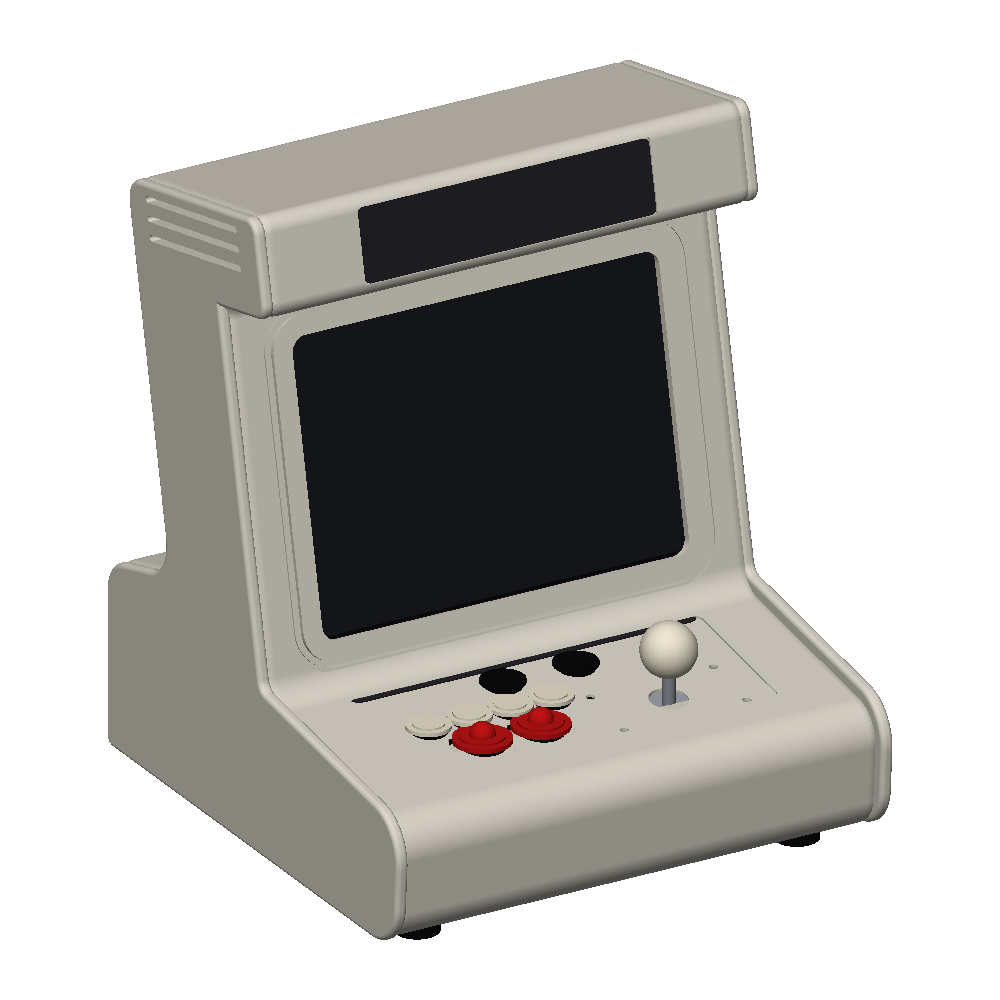
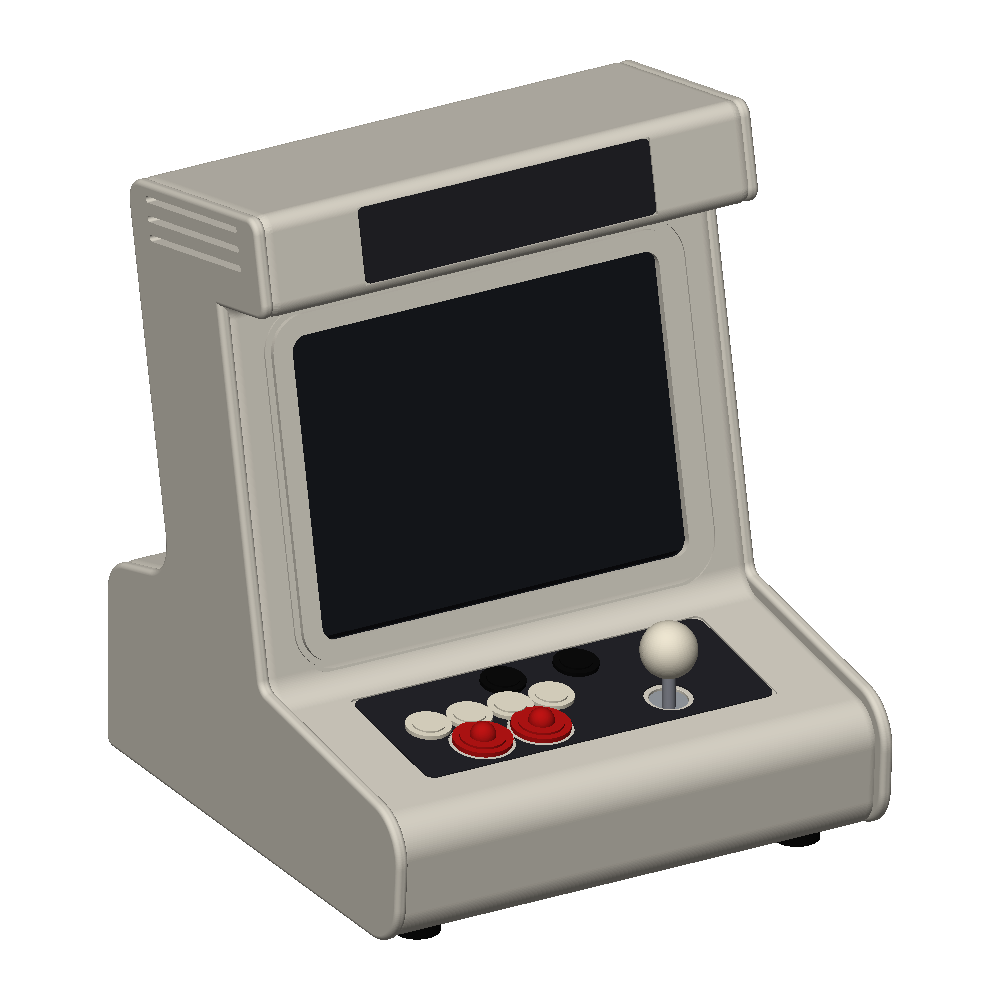
hardware: fit check + component collision purge (iter 31)

Changed region(s): [[0.341, 0.62, 0.775, 0.775]]

diff --git a/hardware/assembly.py b/hardware/assembly.py
@@ -28,11 +28,14 @@ LAYOUT = {
     "mask_thickness": 0.4,       # mm printed black mask behind the glass
     "mask_overlap": 2.0,         # mm mask overlaps the panel active area
     # --- interior boards (floor-mounted, z = wall) ------------------------
-    "sbc_pos": (0.0, 290.0),     # x, y of board center
+    "sbc_pos": (0.0, 272.0),     # x, y of board center; 275+ embedded the
+                                 # rear edge in the rear-wall fillet (fit 31)
     "encoder_pos": (0.0, 110.0),
     "amp_pos": (-100.0, 300.0),
     "buck_pos": (-60.0, 315.0),
     "speaker_height": 22.0,      # 2" driver stack height (catalog bbox)
+    "speaker_gasket": 2.0,       # foam seal under the flange; also clears the
+                                 # hood corner fillets (speaker_scan.py)
     # --- rear panel (outer surface y = cabinet_depth_base) ----------------
     "power_switch_xz": (130.0, 40.0),
     "dc_jack_xz": (-130.0, 40.0),
@@ -68,13 +71,15 @@ def display_face_plane():
 
 
 def place_components():
-    """Return (items, records): items = [(shape, color)] for rendering,
-    records = [{name, at}] for the archive meta."""
-    items, records = [], []
+    """Return (items, records, groups): items = [(shape, color)] for
+    rendering, records = [{name, at}] for the archive meta, groups =
+    [(name, [shape, ...])] for fit checks (shapes in world coords)."""
+    items, records, groups = [], [], []
 
     def add(name, placed_parts, at):
         items.extend(placed_parts)
         records.append({"name": name, "at": [round(v, 1) for v in at]})
+        groups.append((name, [s for s, _ in placed_parts]))
 
     wall = CAB["wall"]
 
@@ -84,9 +89,14 @@ def place_components():
     pc_h = CAB["glass_opening_h"] + 2 * CAB["polycarb_overlap"]
     rabbet_depth = CAB["polycarb_thickness"] + 0.2
     pc_off = wall + CAB["doubler_thickness"] - rabbet_depth / 2
-    mask_off = wall + CAB["polycarb_thickness"] + LAYOUT["mask_thickness"] / 2 + 0.1
+    # mask + panel sit BEHIND the doubler's inner face (the panel bears on
+    # the doubler ring around the rabbet); the clamp frame meets the boss
+    # tips at wall + doubler + gap + panel_thickness (retainer_boss_depth).
+    mask_off = (
+        wall + CAB["doubler_thickness"] + 0.1 + LAYOUT["mask_thickness"] / 2
+    )
     panel_off = (
-        wall + CAB["polycarb_thickness"] + LAYOUT["panel_gap"]
+        wall + CAB["doubler_thickness"] + LAYOUT["panel_gap"]
         + CAB["panel_thickness"] / 2
     )
 
@@ -119,7 +129,7 @@ def place_components():
     from parts import retainer_frame
 
     frame_off = (
-        wall + CAB["polycarb_thickness"] + LAYOUT["panel_gap"]
+        wall + CAB["doubler_thickness"] + LAYOUT["panel_gap"]
         + CAB["panel_thickness"]
     )
     add(
@@ -149,8 +159,9 @@ def place_components():
         (0, 0.1, 0),
     )
 
-    # control plate: flat insert on the slope-aligned deck recess, 0.2 mm
-    # setback below the deck surface
+    # control plate: local-frame insert placed via the slope-aligned deck
+    # plane; origin 1.0 mm below the deck surface along the normal seats the
+    # plate's top face (local z = t = 0.8) at the designed 0.2 mm setback
     s_slope0 = math.radians(CAB["control_deck_slope_deg"])
     nrm = (0.0, -math.sin(s_slope0), math.cos(s_slope0))  # deck outward normal
     cy0 = CAB["control_plate_center_y"]
@@ -190,14 +201,17 @@ def place_components():
             (jx, jy, jz),
         )
 
-        # buttons: 2 primaries (red, front row) + 4 secondaries (white)
+        # buttons: 2 primaries (red, front row) + 4 secondaries (white);
+        # seated square to the sloped deck (holes are cut the same way)
+        s_seat = CAB["control_deck_slope_deg"]
         for i in range(CAB["secondary_count"]):
             bx = cluster_x + CAB["button_grid_offset_x"] + i * CAB["secondary_pitch"]
             by = CAB["secondary_row_y"]
             _, btn_parts, _ = comp.button_obsf24(color=comp.WHITE)
             add(
                 f"secondary_p{player + 1}_{i}",
-                [(Pos(bx, by, deck_z(by)) * s, c) for s, c in btn_parts],
+                [(Pos(bx, by, deck_z(by)) * Rot(s_seat, 0, 0) * s, c)
+                 for s, c in btn_parts],
                 (bx, by, deck_z(by)),
             )
         for i in range(CAB["primary_count"]):
@@ -207,7 +221,8 @@ def place_components():
             _, btn_parts, _ = comp.button_obsf30(color=comp.RED)
             add(
                 f"primary_p{player + 1}_{i}",
-                [(Pos(bx, by, deck_z(by)) * s, c) for s, c in btn_parts],
+                [(Pos(bx, by, deck_z(by)) * Rot(s_seat, 0, 0) * s, c)
+                 for s, c in btn_parts],
                 (bx, by, deck_z(by)),
             )
 
@@ -217,7 +232,9 @@ def place_components():
         _, opt_parts, _ = comp.button_obsf24(color=LAYOUT["option_color"])
         add(
             f"option_{'sel' if sx < 0 else 'start'}",
-            [(Pos(sx * CAB["option_offset_x"], oy, deck_z(oy)) * s, c) for s, c in opt_parts],
+            [(Pos(sx * CAB["option_offset_x"], oy, deck_z(oy))
+              * Rot(CAB["control_deck_slope_deg"], 0, 0) * s, c)
+             for s, c in opt_parts],
             (sx * CAB["option_offset_x"], oy, deck_z(oy)),
         )
 
@@ -241,7 +258,7 @@ def place_components():
     sin_t, cos_t = math.sin(t_tilt), math.cos(t_tilt)
     _, _, sinfo = side_profile(CAB)
     spk_off = CAB["hood_speaker_offset"]
-    lift = wall + LAYOUT["speaker_height"]
+    lift = wall + LAYOUT["speaker_gasket"] + LAYOUT["speaker_height"]
     spk_y = sinfo["chin_y"] + cos_t * spk_off + sin_t * lift
     spk_z = sinfo["chin_z"] - sin_t * spk_off + cos_t * lift
     for sx in (-1, 1):
@@ -291,7 +308,7 @@ def place_components():
         fh = foot_dims["h"]
         add(f"foot_{i}", [(Pos(x, y, -fh) * s, c) for s, c in foot_parts], (x, y, -fh))
 
-    return items, records
+    return items, records, groups
 
 
 def archive_run(records):
@@ -317,7 +334,7 @@ def main():
     shell = build_cabinet()
     print(f"enclosure valid: {shell.is_valid}, solids: {len(shell.solids())}")
 
-    items, records = place_components()
+    items, records, _ = place_components()
     print(f"placed {len(records)} components")
 
     render_parts([(shell, CREAM)] + items, OUT_DIR, prefix="asm")

diff --git a/hardware/cabinet.py b/hardware/cabinet.py
@@ -77,7 +77,9 @@ PARAMS = {
                                    # (consults: soften the base/neck shoulder)
     # --- hood speakers (slots in the hood floor, firing down) -------------
     "hood_speaker_spacing": 200.0, # mm between grille centers (x)
-    "hood_speaker_offset": 29.0,   # mm from the chin along the hood floor
+    "hood_speaker_offset": 32.0,   # mm from the chin along the hood floor;
+                                   # + 2 mm gasket lift = zero shell overlap
+                                   # (speaker_scan.py, iter 31)
     "hood_speaker_slot_len": 48.0, # overall, incl. the radiused ends
     "hood_speaker_slot_w": 4.0,
     "hood_speaker_pitch": 9.0,
@@ -706,6 +708,7 @@ def build_cabinet(p=None):
     )
 
     deck_holes = []  # (x, y, dia) of visible control holes, for rim chamfers
+    s_deg = p["control_deck_slope_deg"]  # holes cut square to the sloped deck
     for player in range(p["players"]):
         cluster_x = (player - (p["players"] - 1) / 2) * p["player_spacing"] \
             + p["cluster_offset_x"]
@@ -713,7 +716,7 @@ def build_cabinet(p=None):
         # joystick: shaft hole + 4x plate mounting holes
         jx = cluster_x + p["joystick_offset_x"]
         jy = p["joystick_offset_y"]
-        solid -= Pos(jx, jy, deck_z(jy)) * Cylinder(
+        solid -= Pos(jx, jy, deck_z(jy)) * Rot(s_deg, 0, 0) * Cylinder(
             radius=p["joystick_shaft_hole_dia"] / 2, height=cut_h
         )
         deck_holes.append((jx, jy, p["joystick_shaft_hole_dia"] / 2))
@@ -724,14 +727,16 @@ def build_cabinet(p=None):
                     jx + sx * p["jlf_mount_spacing_x"] / 2,
                     my,
                     deck_z(my),
-                ) * Cylinder(radius=p["jlf_mount_hole_dia"] / 2, height=cut_h)
+                ) * Rot(s_deg, 0, 0) * Cylinder(
+                    radius=p["jlf_mount_hole_dia"] / 2, height=cut_h
+                )
 
         # buttons: front row = 2 primaries (Ø30, recessed well), back row =
         # 4 secondaries (Ø24); primaries centered under the middle secondaries
         for i in range(p["secondary_count"]):
             bx = cluster_x + p["button_grid_offset_x"] + i * p["secondary_pitch"]
             by = p["secondary_row_y"]
-            solid -= Pos(bx, by, deck_z(by)) * Cylinder(
+            solid -= Pos(bx, by, deck_z(by)) * Rot(s_deg, 0, 0) * Cylinder(
                 radius=p["secondary_hole_dia"] / 2, height=cut_h
             )
             deck_holes.append((bx, by, p["secondary_hole_dia"] / 2))
@@ -740,13 +745,15 @@ def build_cabinet(p=None):
             bx = cluster_x + p["button_grid_offset_x"] + p["secondary_pitch"] * 1.5 \
                 + (i - 0.5) * p["primary_pitch"]
             by = p["primary_row_y"]
-            solid -= Pos(bx, by, deck_z(by)) * Cylinder(
+            solid -= Pos(bx, by, deck_z(by)) * Rot(s_deg, 0, 0) * Cylinder(
                 radius=p["primary_hole_dia"] / 2, height=cut_h
             )
             deck_holes.append((bx, by, p["primary_recess_dia"] / 2))
             # tactile recess well around each primary (below the plate floor)
             rd = p["primary_recess_depth"] + p["control_plate_recess"]
-            solid -= Pos(bx, by, deck_z(by) - rd / 2 + 0.1) * Cylinder(
+            solid -= Pos(bx, by, deck_z(by)) * Rot(s_deg, 0, 0) * Pos(
+                0, 0, -rd / 2 + 0.1
+            ) * Cylinder(
                 radius=p["primary_recess_dia"] / 2, height=rd + 0.2
             )
 
@@ -755,7 +762,9 @@ def build_cabinet(p=None):
         oy = p["option_offset_y"]
         solid -= Pos(
             sx * p["option_offset_x"], oy, deck_z(oy)
-        ) * Cylinder(radius=p["option_hole_dia"] / 2, height=cut_h)
+        ) * Rot(s_deg, 0, 0) * Cylinder(
+            radius=p["option_hole_dia"] / 2, height=cut_h
+        )
         deck_holes.append(
             (sx * p["option_offset_x"], oy, p["option_hole_dia"] / 2)
         )

diff --git a/hardware/fit_check.py b/hardware/fit_check.py
@@ -1,0 +1,46 @@
+"""ArcadeBench fit check — intersect every placed component with the shell.
+
+Renders can hide clearance regressions (a speaker magnet kissing the hood
+floor looks fine until you section it). This intersects each placed
+component from assembly.place_components() with the enclosure solid and
+reports the overlap volume per component; exits nonzero if any exceeds
+the threshold.
+
+Intentional embeds (nameplate in its recess, button threads through
+holes) are expected to read ~0; anything larger is a real collision.
+
+Run:  hardware/.venv/bin/python hardware/fit_check.py
+"""
+
+import sys
+
+from assembly import place_components
+from cabinet import build_cabinet
+
+THRESH = 1.0  # mm^3 per component
+
+
+def main():
+    shell = build_cabinet()
+    _, _, groups = place_components()
+    worst, bad = 0.0, []
+    for name, shapes in groups:
+        vol = 0.0
+        for s in shapes:
+            inter = shell & s
+            if inter is not None:
+                vol += sum(x.volume for x in inter.solids())
+        worst = max(worst, vol)
+        flag = "  <-- COLLISION" if vol > THRESH else ""
+        print(f"  {name:20s} {vol:10.3f} mm^3{flag}")
+        if vol > THRESH:
+            bad.append(name)
+    print(f"max component overlap: {worst:.3f} mm^3 (threshold {THRESH})")
+    if bad:
+        print(f"FAIL: {len(bad)} component(s) intersect the shell: {bad}")
+        sys.exit(1)
+    print("fit check OK")
+
+
+if __name__ == "__main__":
+    main()

diff --git a/hardware/speaker_scan.py b/hardware/speaker_scan.py
@@ -1,0 +1,39 @@
+"""Scan speaker placement along the hood floor: overlap vs offset/lift."""
+import math
+
+from build123d import Cylinder, Pos, Rot
+
+from cabinet import PARAMS as CAB, build_cabinet, side_profile
+
+shell = build_cabinet()
+wall = CAB["wall"]
+t = math.radians(CAB["display_tilt_deg"])
+sin_t, cos_t = math.sin(t), math.cos(t)
+_, _, sinfo = side_profile(CAB)
+
+BASKET_D, BASKET_H = 52.0, 7.0   # flange disc (the part that meets corners)
+STACK_H = 22.0
+
+print("offset  lift   flange_mm3  stack_mm3")
+for off in range(22, 40, 2):
+    for lift_extra in (0.0, 1.0, 2.0):
+        lift = wall + lift_extra
+        base_y = sinfo["chin_y"] + cos_t * off + sin_t * lift
+        base_z = sinfo["chin_z"] - sin_t * off + cos_t * lift
+        flange = (
+            Pos(-100.0, base_y, base_z)
+            * Rot(-CAB["display_tilt_deg"], 0, 0)
+            * Pos(0, 0, BASKET_H / 2)
+            * Cylinder(radius=BASKET_D / 2, height=BASKET_H)
+        )
+        stack = (
+            Pos(-100.0, base_y, base_z)
+            * Rot(-CAB["display_tilt_deg"], 0, 0)
+            * Pos(0, 0, STACK_H / 2)
+            * Cylinder(radius=BASKET_D / 2, height=STACK_H)
+        )
+        fi = shell & flange
+        si = shell & stack
+        fv = sum(s.volume for s in fi.solids()) if fi is not None else 0.0
+        sv = sum(s.volume for s in si.solids()) if si is not None else 0.0
+        print(f"{off:5.0f}  {lift_extra:4.1f}   {fv:9.2f}  {sv:9.2f}")

diff --git a/hardware/components.py b/hardware/components.py
@@ -322,9 +322,10 @@ def control_plate():
     """Removable control-surface inlay (dark anodized), 0.8 mm thick.
 
     Sized from the deck's control_plate recess with a 1 mm perimeter gap
-    and 0.2 mm setback. Frame: origin at the deck-layout origin (x across,
-    y from the deck front edge), plate spans z -0.2..-1.0 below the deck
-    surface; holes match the cabinet control cutouts (primaries opened to
+    and 0.2 mm setback. Frame: LOCAL to the plate — origin at the plate
+    center, z 0..t (assembly seats the top face 0.2 mm below the deck
+    surface via the slope-aligned deck plane); holes match the cabinet
+    control cutouts relative to the plate center (primaries opened to
     the well diameter so the tactile wells stay visible).
     """
     from cabinet import PARAMS as CAB
@@ -339,12 +340,12 @@ def control_plate():
     with BuildSketch(Plane.XY) as sk:
         Rectangle(dims["w"], dims["d"])
         fillet(sk.vertices(), radius=dims["corner_r"])
-    plate = Pos(0, cy, 0) * extrude(sk.sketch, amount=dims["t"])
+    plate = extrude(sk.sketch, amount=dims["t"])
     cut_h = dims["t"] + 2
 
     def hole(x, y, dia):
         nonlocal plate
-        plate -= Pos(x, y, dims["t"] / 2) * Cylinder(radius=dia / 2, height=cut_h)
+        plate -= Pos(x, y - cy, dims["t"] / 2) * Cylinder(radius=dia / 2, height=cut_h)
 
     for player in range(CAB["players"]):
         cx = (player - (CAB["players"] - 1) / 2) * CAB["player_spacing"] \

diff --git a/hardware/fit_debug.py b/hardware/fit_debug.py
@@ -1,0 +1,27 @@
+"""Debug probe: where do colliding components intersect the shell?"""
+from assembly import place_components
+from cabinet import build_cabinet
+
+WATCH = {"display_panel", "retainer_frame", "control_plate", "sbc",
+         "speaker_l", "primary_p1_0", "secondary_p1_0"}
+
+shell = build_cabinet()
+_, _, groups = place_components()
+for name, shapes in groups:
+    if name not in WATCH:
+        continue
+    vol = 0.0
+    mins = [1e9] * 3
+    maxs = [-1e9] * 3
+    for s in shapes:
+        inter = shell & s
+        if inter is None:
+            continue
+        for x in inter.solids():
+            vol += x.volume
+            bb = x.bounding_box()
+            for i, (lo, hi) in enumerate(((bb.min.X, bb.max.X), (bb.min.Y, bb.max.Y), (bb.min.Z, bb.max.Z))):
+                mins[i] = min(mins[i], lo)
+                maxs[i] = max(maxs[i], hi)
+    rng = ", ".join(f"{a:.1f}..{b:.1f}" for a, b in zip(mins, maxs))
+    print(f"{name:16s} {vol:9.2f} mm^3   overlap bbox: {rng}")

diff --git a/hardware/design-notes.md b/hardware/design-notes.md
@@ -518,3 +518,23 @@ switch, PSU, inserts, feet) — then an assembled render with the enclosure.
   places it behind the panel (29 components now). Chain green;
   retainer valid, 1 body. Flat-pack (panels.py) retainer path still
   TODO — sheet-metal version wants a bent angle frame, not this part.
+- Iteration 31 (2026-08-19, archived `iter-036`, assembly `asm-032`):
+  **fit check + collision purge**. New `fit_check.py` intersects every
+  placed component with the shell and fails over 1 mm^3; first run
+  flagged 14 components. Root causes + fixes: (1) display stack
+  offsets in assembly.py predated the 4 mm window doubler — mask,
+  panel, and retainer frame were all ~1.5 mm embedded; now keyed off
+  wall+doubler. (2) control_plate was built in absolute deck coords
+  AND placed via the deck plane (double transform — it sliced through
+  the seam); components.py now builds it in a local plate frame.
+  (3) deck holes were cut vertical while the deck slopes 8 deg and
+  buttons were placed vertical — bezel rims wedged ~1.5 mm into the
+  deck; holes + buttons + primary wells are all cut/seated square to
+  the deck normal now. (4) SBC rear edge sat in the rear-wall corner
+  fillet; moved y 290 -> 272. (5) speakers: the Ø52 basket cannot fit
+  between the hood corner fillets at floor level at ANY offset
+  (speaker_scan.py parametric probe) — now at offset 32 with a 2 mm
+  foam-gasket lift (standard speaker sealing practice), zero overlap.
+  Result: 28 components, max overlap 0.294 mm^3 (known JLF plate
+  wedge on the sloped deck, by design). Bonus: the control plate now
+  renders as the dark inlay it was meant to be. Chain green.
